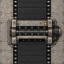
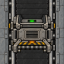
feat(belts): redraw splitter and connector as directional machine housings
Codex image_gen masters (same codex exec flow as 900ad6a, port geometry fed
as a template built from belt.png): splitter is one closed 2x1 box, connector
an asymmetric housing; direction reads from machinery (back intake lip with
hazard stripes and feeder rollers, front ejector shutter with green light),
no painted arrows. Belt surface at the part edges matches belt.png (x15-48 of
64 per column). Animation-ready layers stored in art/ only, not baked:
belt_{splitter,connector}_base (moving parts removed) and _moving (rollers,
diverter shuttle, shutters, lights on alpha). belt-sprites: -import skips
absent masters and keys _moving overlays; preview adds flow columns, icons
and blueprint.

diff --git a/tools/belt-sprites/main.go b/tools/belt-sprites/main.go
@@ -37,6 +37,15 @@ var sprites = []sprite{
 	{"belt_splitter_blueprint", 2, 1, "belt_splitter_blueprint.png", ""},
 }
 
+// layers are animation-ready masters kept in art/ only (not baked yet): <part>_base = housing with moving parts removed,
+// <part>_moving = rollers/shuttle/shutters/lights alone on transparency. The game uses the composed <part> master.
+var layers = []sprite{
+	{master: "belt_connector_base", w: 1, h: 1}, {master: "belt_connector_moving", w: 1, h: 1},
+	{master: "belt_splitter_base", w: 2, h: 1}, {master: "belt_splitter_moving", w: 2, h: 1},
+}
+
+func exists(path string) bool { _, err := os.Stat(path); return err == nil }
+
 func load(path string) *image.NRGBA {
 	f, err := os.Open(path)
 	if err != nil {
@@ -161,7 +170,7 @@ func preview(game, assets, path string) {
 		return w
 	}
 	W := max(width(row1, 16), width(row2, 0)+32)
-	out := image.NewNRGBA(image.Rect(0, 0, W, 2*s+48))
+	out := image.NewNRGBA(image.Rect(0, 0, W, 5*s+80))
 	for i := range out.Pix {
 		out.Pix[i] = 40
 		if i%4 == 3 {
@@ -178,6 +187,27 @@ func preview(game, assets, path string) {
 		paste(out, resize(im, im.Rect.Dx()*s/64, s), x, s+32)
 		x += im.Rect.Dx() * s / 64
 	}
+	// Flow columns (front = top): belts feeding into and out of the splitter and the connector, to check edge joins.
+	put := func(name string, tx, ty int) {
+		im := col(name)
+		paste(out, resize(im, im.Rect.Dx()*s/64, im.Rect.Dy()*s/64), 16+tx*s, 2*s+48+ty*s)
+	}
+	for ty := 0; ty < 3; ty += 2 {
+		put("belt.png", 0, ty)
+		put("belt.png", 1, ty)
+		put("belt.png", 3, ty)
+	}
+	put("belt_splitter.png", 0, 1)
+	put("belt_connector.png", 3, 1)
+	// Editor icons and the splitter blueprint at their native pixel size, 2x.
+	ix := 16 + 5*s
+	for _, name := range []string{"belt_splitter_icon.png", "belt_connector_icon.png", "belt_icon.png"} {
+		im := col(name)
+		paste(out, resize(im, im.Rect.Dx()*2, im.Rect.Dy()*2), ix, 2*s+48)
+		ix += im.Rect.Dx()*2 + 16
+	}
+	bp := col("belt_splitter_blueprint.png")
+	paste(out, resize(bp, 2*s, s), 16+5*s, 3*s+48)
 	save(out, path)
 }
 
@@ -190,8 +220,25 @@ func main() {
 	flag.Parse()
 
 	if *importDir != "" {
-		for _, sp := range sprites {
-			raw := trimKeyRows(load(filepath.Join(*importDir, sp.master+"_master.png")))
+		// Only masters present in -import are replaced, so one part can be regenerated without touching the others.
+		for _, sp := range append(sprites, layers...) {
+			path := filepath.Join(*importDir, sp.master+"_master.png")
+			if !exists(path) {
+				continue
+			}
+			raw := load(path)
+			if base, ok := strings.CutSuffix(sp.master, "_moving"); ok {
+				// The overlay is mostly magenta, so crop it to the base layer's key bands and key magenta to alpha.
+				b := trimKeyRows(load(filepath.Join(*importDir, base+"_base_master.png"))).Rect
+				raw = raw.SubImage(image.Rect(0, b.Min.Y, raw.Rect.Dx(), b.Max.Y)).(*image.NRGBA)
+				for i := 0; i < len(raw.Pix); i += 4 {
+					if magenta(color.NRGBA{raw.Pix[i], raw.Pix[i+1], raw.Pix[i+2], 255}) {
+						raw.Pix[i+3] = 0
+					}
+				}
+			} else {
+				raw = trimKeyRows(raw)
+			}
 			save(resize(raw, sp.w*masterTile, sp.h*masterTile), filepath.Join(*artDir, sp.master+".png"))
 		}
 	}

diff --git a/docs/BELTS_DESIGN.md b/docs/BELTS_DESIGN.md
@@ -354,6 +354,11 @@ Spot-checked: `Part.cs:827,1371`, `SimRoot.cs:605-618`, `FixedUpdateBuckets.cs` 
   Art: Codex image-gen masters in `tools/belt-sprites/art` (256 px/tile), baked to 64 px/tile + icons by
   `tools/belt-sprites` (Go, trim/downscale only). `belt_curve.png` is baked but not wired: floor art is static per
   part, so curves need a C# floor quad chosen from `Shape.CurveLeft/CurveRight` (CurveRight = mirrored).
+  Splitter and connector are closed machine housings; direction reads from the machinery (back = bulky intake with
+  hazard lip + feeder rollers, front = slim ejector shutter + green light), no painted arrows. Animation-ready layers
+  (art only, not baked/wired): `belt_{splitter,connector}_base.png` (housing, moving parts removed) and
+  `belt_{splitter,connector}_moving.png` (rollers, diverter shuttle/piston, shutters, lights on alpha); the game
+  uses the composed `belt_{splitter,connector}.png`.
 - Core (pure, headless-tested): `LaneSim` (lanes on per-part `LaneTile`s), `BeltWorld` (topology §4-§7 + tick),
   `NodeState` (payload v2). Changes vs §3/§10: speed remainder is derived from `Sim.Tick`
   (`floor((t+1)*512/30) - floor(t*512/30)`), so no accumulator is saved; drains open for one tick only (held items
